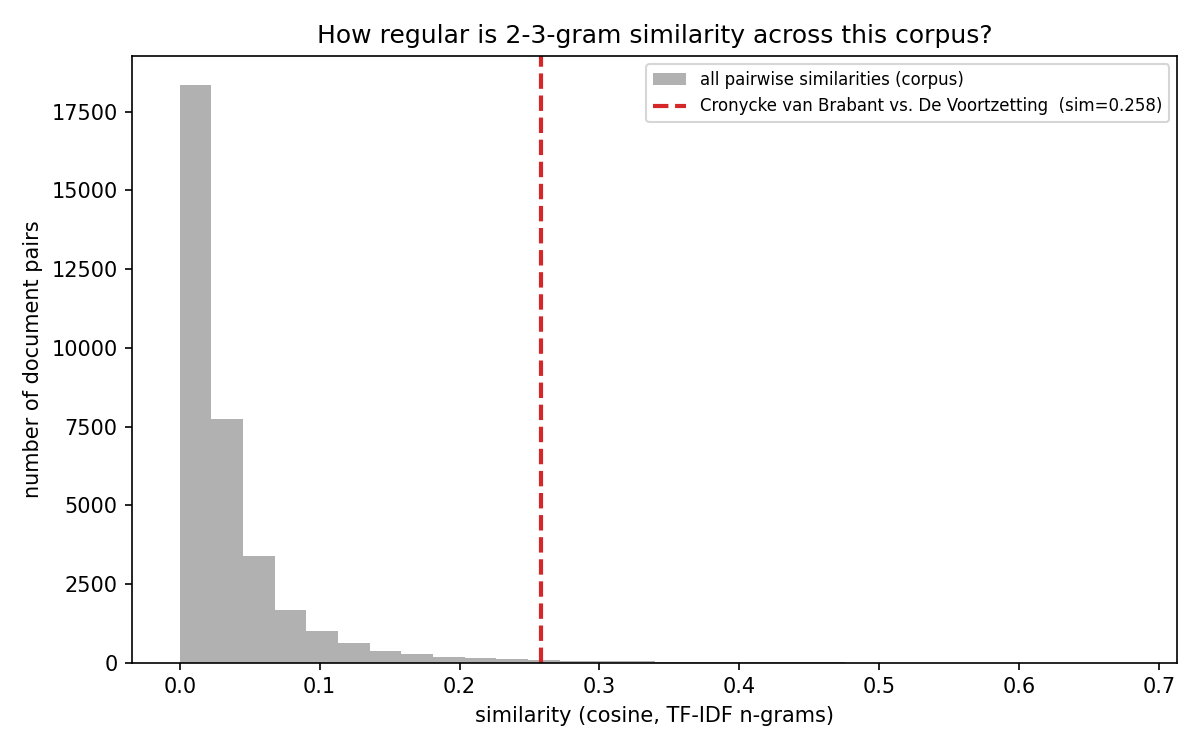
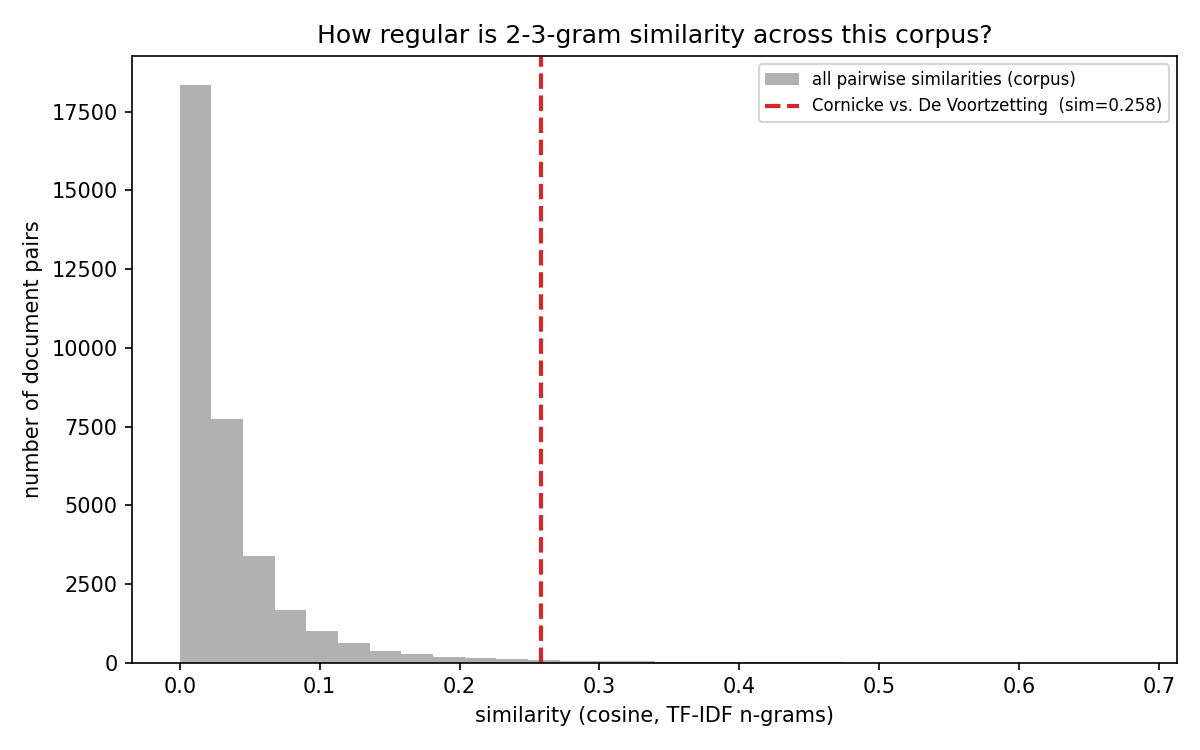
ok

Changed region(s): [[0.5242, 0.092, 0.8942, 0.1533], [0.8942, 0.1227, 0.925, 0.1533]]

diff --git a/export_for_website.py b/export_for_website.py
@@ -41,7 +41,7 @@ INPUT_FOLDER = Path("csv_files")
 TEXT_COLUMN = "text"
 
 KNOWN_MATCH = "cronycke_van_brabant"
-KNOWN_LABEL = "Cronycke van Brabant"
+KNOWN_LABEL = "Cornicke"
 
 # (filename substring, display label) for the questioned document
 QUESTIONED_MATCHES = [
@@ -270,7 +270,6 @@ def run() -> None:
 
     print(f"Done. Wrote rhymes.json, ngrams.json, null_calibration.json, and both "
           f"*_similarity_distribution.png histograms to {OUTPUT_FOLDER}/")
-    print("(embeddings.json is left untouched -- it stays as sample/placeholder data)")
 
 
 if __name__ == "__main__":